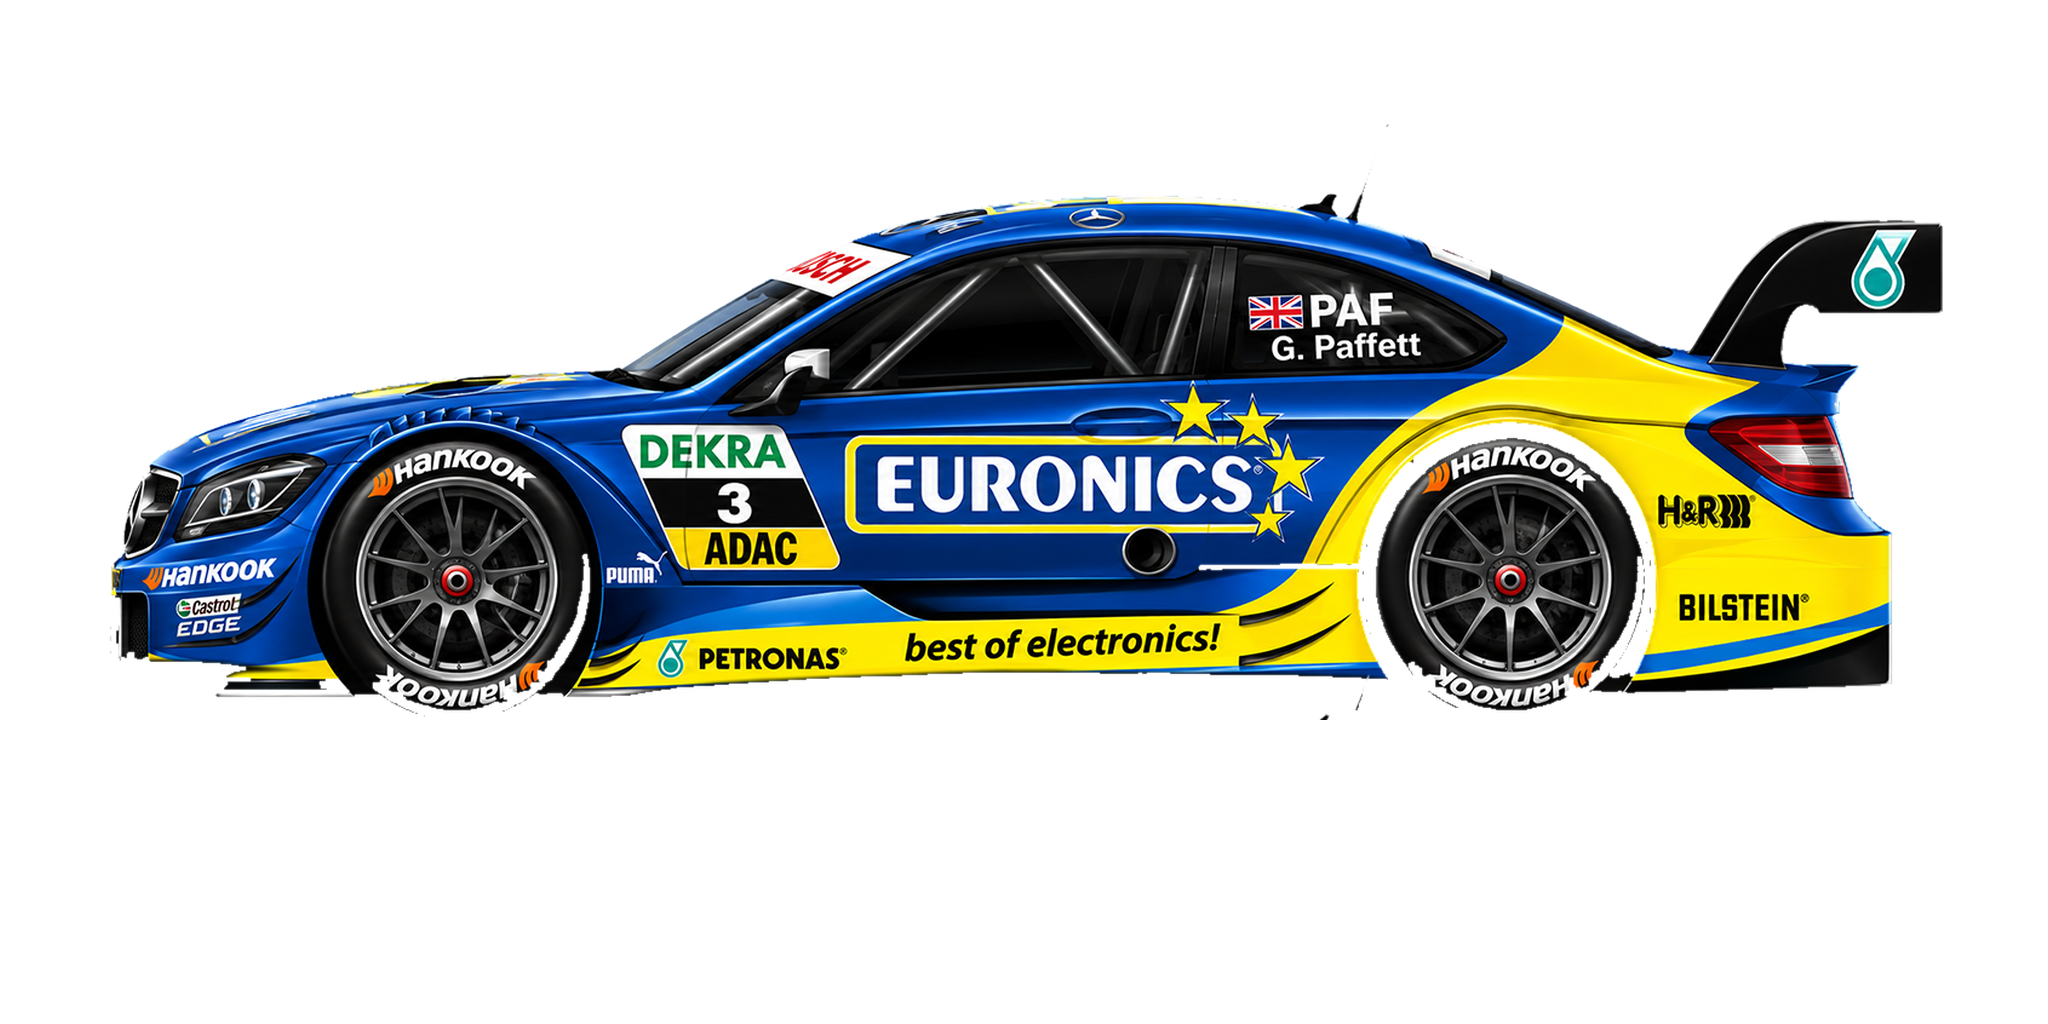
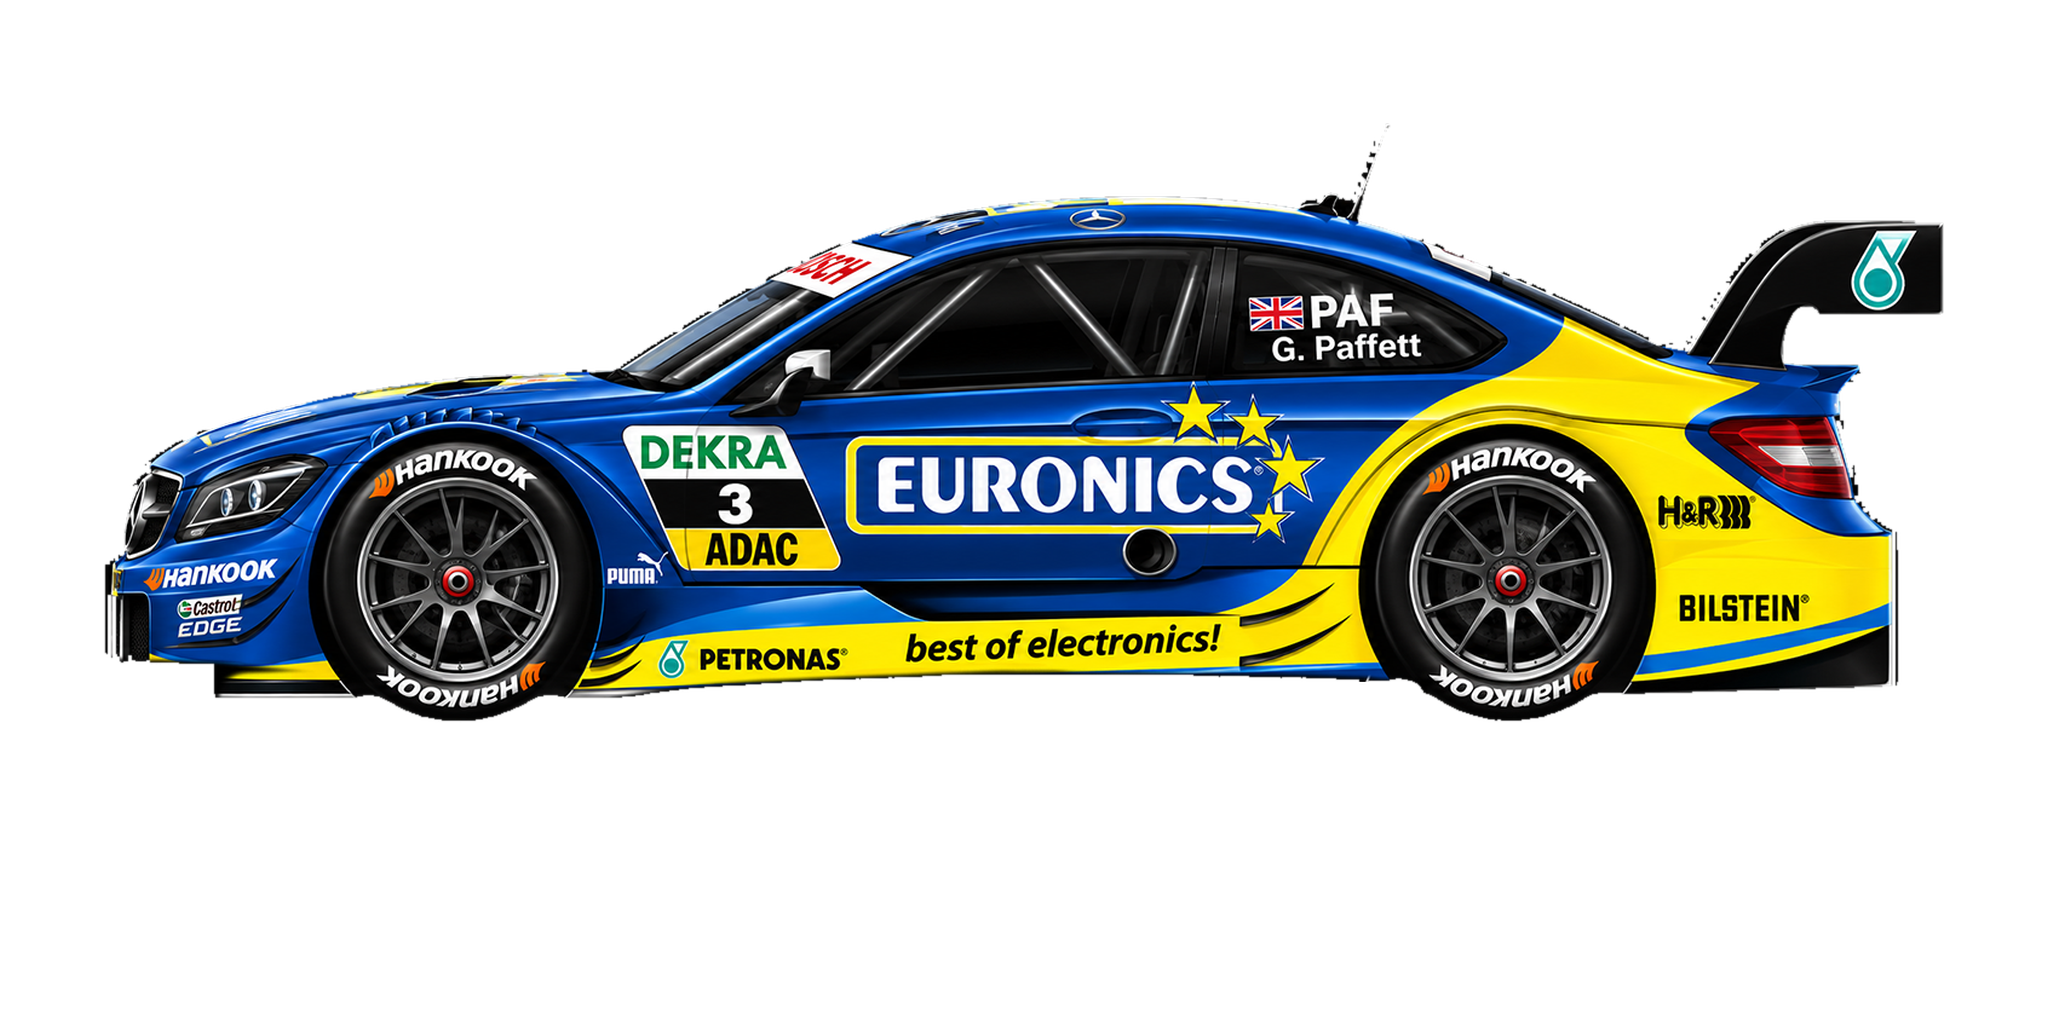
DTM 2013 car images: black tyres, full antennas, one ground line
car_drawings.py now keeps the tyres, wheel-arch gaps and the black
underfloor (splitter, diffuser) that the background cut-out used to eat:
each tyre is found from its rim (Hough circle) and filled, and short dark
vertical gaps in a car's lower part are closed.

Every car's tyres stand on y=720, so the team image no longer jumps
between teams in the menus.

On the four-car HWA sheet, cars are separated by connected parts (each
part joins its nearest body) rather than by rows, each antenna is traced
up from its own roof, and stray specks are dropped, so #4's antenna no
longer hangs under Paffett's car and #4, #9 and #10 get theirs back.

drawings.json gains an "edits" entry that corrects #23's name panel from
"T. Schneider" to "T. Scheider".

Changed region(s): [[0.0312, 0.1875, 0.9375, 0.7188], [0.8438, 0.2188, 0.9375, 0.3125]]

diff --git a/tools/car_drawings.py b/tools/car_drawings.py
@@ -2,8 +2,10 @@
 
 A season's art/drawings.json lists sheets from an artist: square images of a
 team's cars on a black background, stacked top to bottom. Each car is cut
-out (the background made transparent), scaled to the span car_art.py uses
-(1840 px wide, wheels on y=720) and written:
+out (the background made transparent; the tyres and wheel arches stay
+black), scaled to the span car_art.py uses (1840 px wide) with the tyres
+standing on y=720, so every team image sits on the same ground line, and
+written:
 
 * the team image to <season>/assets/Cars/<Team>.png (the game shows one car
   per team: the sheet's "team" takes its first car, "teams" names a car per
@@ -24,15 +26,19 @@ import json
 import math
 from pathlib import Path
 
+import cv2
 import numpy as np
 from PIL import Image, ImageChops, ImageDraw, ImageFilter
 from scipy import ndimage
 
 from car_art import CACHE, CANVAS, CAR_SPAN_PX, GROUND_Y, REPO, font, load_json
 
-BLACK_MAX = 6        # background is pure black; tyres and black bodies are lighter
-MIN_CAR_ROWS = 80    # a band of rows shorter than this is not a car
-BODY_ROW_PX = 40     # a row with fewer car pixels is an antenna or a gap
+BLACK_MAX = 1        # background is 0-1; tyre rubber and arch gaps start at 2
+SPECK_PX = 300       # car pixels in a smaller island are background noise
+TYRE_R = 0.075       # tyre radius as a share of the car's length (search guess)
+ARCH_GAP = 0.25      # the dark gap kept around a tyre, as a share of its radius
+UNDERFLOOR = 0.6     # dark gaps up to this share of a tyre radius tall are
+                     # filled in a car's lower part (splitter, diffuser)
 
 
 def foreground(rgb):
@@ -41,64 +47,234 @@ def foreground(rgb):
     labels, _ = ndimage.label(dark)
     edge = np.unique(np.concatenate([labels[0], labels[-1], labels[:, 0], labels[:, -1]]))
     bg = np.isin(labels, edge[edge > 0])
-    return ~bg
+    # The background has a little noise just above the threshold next to
+    # the tyres; drop those specks.
+    labels, n = ndimage.label(~bg)
+    sizes = ndimage.sum(~bg, labels, range(1, n + 1))
+    return np.isin(labels, np.flatnonzero(sizes >= SPECK_PX) + 1)
 
 
-def cut_cars(path):
-    """The cars on a sheet, top to bottom, as RGBA crops."""
-    im = Image.open(path).convert("RGB")
+def ground_row(alpha):
+    """The row where both tyres touch the ground (lowest row with car pixels
+    at the front and at the back), so a splitter or a stray pixel below the
+    tyres doesn't move the car."""
+    mask = np.asarray(alpha) > 128
+    width = mask.shape[1]
+    for y in range(mask.shape[0] - 1, -1, -1):
+        xs = np.flatnonzero(mask[y])
+        if len(xs) < 16:
+            continue
+        runs = np.split(xs, np.flatnonzero(np.diff(xs) > 1) + 1)
+        long = [r for r in runs if len(r) >= 8]
+        if len(long) >= 2 and long[-1][0] - long[0][-1] >= 0.4 * width:
+            return y
+    raise SystemExit("no tyres found on a car")
+
+
+def split_cars(fg, n):
+    """A car number (1..n, top to bottom) for every foreground pixel.
+
+    Cars on a sheet can overlap in height (one car's tyres lower than the
+    next car's wing top) and an antenna can touch the car above, so rows
+    alone can't separate them. Thin vertical strokes (antennas) are set
+    aside, the rest falls into connected parts, the n largest parts are the
+    car bodies, and every other part joins the body it is closest to (wheels)
+    or, for a thin stroke, the car it stands on.
+    """
+    eight = np.ones((3, 3), bool)
+    core = ndimage.binary_opening(fg, structure=np.ones((1, 7), bool))
+    labels, count = ndimage.label(core, structure=eight)
+    sizes = ndimage.sum(core, labels, range(1, count + 1))
+    objs = ndimage.find_objects(labels)
+    bodies = sorted((int(i) + 1 for i in np.argsort(sizes)[::-1][:n]), key=lambda i: objs[i - 1][0].start)
+    if len(bodies) < n:
+        raise SystemExit(f"found {len(bodies)} cars, expected {n}")
+    # Every other part (wheels, mirrors, an antenna mount) joins the body
+    # most of its pixels are closest to.
+    body = np.zeros(fg.shape, np.int8)
+    for k, b in enumerate(bodies, start=1):
+        body[labels == b] = k
+    _, (iy, ix) = ndimage.distance_transform_edt(body == 0, return_indices=True)
+    nearest = body[iy, ix]
+    votes = np.zeros((count + 1, n + 1), np.int64)
+    np.add.at(votes, (labels[core], nearest[core]), 1)
+    assign = (votes[:, 1:].argmax(axis=1) + 1).astype(np.int8)
+    assign[0] = 0
+    car = assign[labels]
+    thin, _ = ndimage.label(fg & (car == 0), structure=eight)
+    for i, sl in enumerate(ndimage.find_objects(thin), start=1):
+        # Look one pixel around the piece for the cars it touches.
+        y0, x0 = max(sl[0].start - 1, 0), max(sl[1].start - 1, 0)
+        win = (slice(y0, sl[0].stop + 1), slice(x0, sl[1].stop + 1))
+        piece = thin[win] == i
+        ring = ndimage.binary_dilation(piece, eight) & (car[win] > 0)
+        ys, xs = np.nonzero(ring)
+        if len(ys):
+            # An antenna stands on its own car: take the car under its foot.
+            car[win][piece] = car[win][ys.max(), xs[ys.argmax()]]
+    return car
+
+
+def claim_antennas(fg, owner, n):
+    """Give each car back its antenna where it reaches into the car above.
+
+    A car's topmost pixels are its antenna mount. From there, follow the
+    antenna upwards row by row: take the narrow run of pixels next to where
+    the last row's run was, until the runs get wide (the car above's body or
+    tyre) or stop.
+    """
+    for k in range(2, n + 1):
+        ys, xs = np.nonzero(owner == k)
+        top = ys.min()
+        x, reach, misses = float(np.median(xs[ys == top])), 16, 0
+        for y in range(top - 1, max(top - 200, -1), -1):
+            row = fg[y]
+            lo, hi = max(int(x) - reach, 0), int(x) + reach + 1
+            hits = np.flatnonzero(row[lo:hi]) + lo
+            if not len(hits):
+                misses += 1
+                if misses > 2:
+                    break
+                continue
+            # The run of pixels around the hit nearest the line.
+            start = end = hits[np.abs(hits - x).argmin()]
+            while start > 0 and row[start - 1]:
+                start -= 1
+            while end + 1 < len(row) and row[end + 1]:
+                end += 1
+            if end - start + 1 > 16:
+                break
+            # Specks along the antenna come with it.
+            near = slice(max(start - 4, 0), end + 5)
+            owner[y, near][row[near]] = k
+            x, reach, misses = (start + end) / 2, 8, 0
+
+
+def underfloor(mine, ground, radius):
+    """Dark parts of the underfloor (the splitter's top, the diffuser) are
+    as black as the background: fill short vertical gaps in a car's lower
+    part, between the bodywork above and the splitter edge below."""
+    size = max(3, int(UNDERFLOOR * radius)) | 1
+    closed = cv2.morphologyEx(mine.astype(np.uint8), cv2.MORPH_CLOSE,
+                              np.ones((size, 1), np.uint8)) > 0
+    band = np.zeros_like(mine)
+    band[max(int(ground - 1.2 * radius), 0):ground + 1] = True
+    return closed & band & ~mine
+
+
+def tyres(gray, mine):
+    """Black around the tyres: each tyre's disc plus the gap up to the wheel
+    arch, which the background cut-out partly eats (the rubber and the gap
+    are as dark as the background).
+
+    A tyre stands on the ground row; its rim is a clear circle (found with a
+    Hough transform), and the tyre's radius is the rim centre's height above
+    the ground.
+    """
+    ys, xs = np.nonzero(mine)
+    x0, x1, y0 = xs.min(), xs.max(), ys.min()
+    crop = mine[y0:ys.max() + 1, x0:x1 + 1]
+    ground = y0 + ground_row(Image.fromarray((crop * 255).astype(np.uint8)))
+    row = np.flatnonzero(mine[ground])
+    runs = [r for r in np.split(row, np.flatnonzero(np.diff(row) > 1) + 1) if len(r) >= 8]
+    guess = TYRE_R * (x1 - x0)
+    extra = np.zeros_like(mine)
+    radii = []
+    yy, xx = np.ogrid[:mine.shape[0], :mine.shape[1]]
+    for run in (runs[0], runs[-1]):
+        cx = int(run.mean())
+        wx0, wy0 = max(int(cx - 1.3 * guess), 0), max(int(ground - 2.3 * guess), 0)
+        win = cv2.medianBlur(np.ascontiguousarray(gray[wy0:ground + 5, wx0:int(cx + 1.3 * guess)]), 5)
+        found = cv2.HoughCircles(win, cv2.HOUGH_GRADIENT, dp=1, minDist=1000, param1=120, param2=25,
+                                 minRadius=int(0.45 * guess), maxRadius=int(0.8 * guess))
+        if found is None:
+            raise SystemExit(f"no wheel rim found near x={cx}")
+        hx, hy = found[0][0][0] + wx0, found[0][0][1] + wy0
+        r = ground - hy
+        radii.append(r)
+        if not 0.8 * guess < r < 1.2 * guess:
+            raise SystemExit(f"odd tyre radius {r:.0f} (expected about {guess:.0f})")
+        dist = np.hypot(xx - hx, yy - hy)
+        extra |= dist <= r
+        # The arch gap: what closing the car's outline adds in a ring
+        # around the tyre, above the ground.
+        ring = (dist <= r * (1 + ARCH_GAP)) & (yy <= ground)
+        size = max(3, int(r * ARCH_GAP)) | 1
+        closed = cv2.morphologyEx((mine | extra).astype(np.uint8), cv2.MORPH_CLOSE,
+                                  cv2.getStructuringElement(cv2.MORPH_ELLIPSE, (size, size))) > 0
+        extra |= closed & ring
+    return extra & ~mine, ground, float(np.mean(radii))
+
+
+def apply_edits(im, edits):
+    """Small text fixes on the artist's sheet. "cut" removes the columns
+    [x0, x1) from rows [y0, y1) by moving what's right of them (up to
+    "until") left, e.g. a letter too many in a name panel."""
+    rgb = np.array(im)
+    for edit in edits:
+        (x0, x1), (y0, y1), until = edit["cut"], edit["rows"], edit["until"]
+        width = x1 - x0
+        rgb[y0:y1, x0:until - width] = rgb[y0:y1, x1:until].copy()
+        # The vacated strip takes the panel's colour from just right of it.
+        rgb[y0:y1, until - width:until] = rgb[y0:y1, until:until + width][:, ::-1]
+    return Image.fromarray(rgb)
+
+
+def cut_cars(path, n, edits=()):
+    """The n cars on a sheet, top to bottom, as RGBA crops."""
+    im = apply_edits(Image.open(path).convert("RGB"), edits)
     rgb = np.asarray(im)
     fg = foreground(rgb)
-    # Cars can sit so close that one's antenna touches the car above, so
-    # split on rows that are nearly empty (antennas only) rather than blank.
-    count = fg.sum(axis=1)
-    body = np.append(count >= BODY_ROW_PX, False)
-    runs, start = [], None
-    for y, on in enumerate(body):
-        if on and start is None:
-            start = y
-        elif not on and start is not None:
-            if y - start >= MIN_CAR_ROWS:
-                runs.append((start, y))
-            start = None
-    cuts = [0] + [a_end + int(np.argmin(count[a_end:b_start]))
-                  for (_, a_end), (b_start, _) in zip(runs, runs[1:])] + [len(count)]
-    bands = list(zip(cuts, cuts[1:]))
-    for (_, y1), (_, run_end) in zip(bands, runs):
-        # Under a car's sill, a thin sliver is the next car's antenna tip.
-        below = fg[run_end:y1]
-        if not below.size:
-            continue
-        labels, n = ndimage.label(below)
-        for i, sl in enumerate(ndimage.find_objects(labels), start=1):
-            if sl[1].stop - sl[1].start < 12:
-                below[labels == i] = False
+    owner = split_cars(fg, n)
+    claim_antennas(fg, owner, n)
+    for k in range(1, n + 1):
+        # Specks cut off from a car (left over from a neighbour's antenna)
+        # would be joined up by the underfloor fill: drop them.
+        labels, count = ndimage.label(owner == k, structure=np.ones((3, 3), bool))
+        sizes = ndimage.sum(owner == k, labels, range(1, count + 1))
+        specks = np.isin(labels, np.flatnonzero(sizes < SPECK_PX // 5) + 1)
+        owner[specks] = 0
+        fg &= ~specks
+    gray = cv2.cvtColor(rgb, cv2.COLOR_RGB2GRAY)
+    masks = []
+    for k in range(1, n + 1):
+        own = owner == k
+        add, ground, radius = tyres(gray, own)
+        add |= underfloor(own | add, ground, radius)
+        mine = own | add
+        # Nothing of a car hangs below its tyres; a sliver there is the
+        # antenna tip of the car underneath.
+        mine[ground + 3:] = False
+        # Where the fill behind a tyre or under the floor crosses a
+        # neighbour's antenna, this car shows its dark underside instead.
+        masks.append((mine, add & (owner > 0) & ~own))
+    fg = np.logical_or.reduce([mine for mine, _ in masks])
     alpha = Image.fromarray((fg * 255).astype(np.uint8))
     # Pull the edge in by a pixel and soften it: the drawing is antialiased
     # against black, which would leave a dark fringe on a light background.
     alpha = alpha.filter(ImageFilter.MinFilter(3)).filter(ImageFilter.GaussianBlur(0.6))
-    rgba = im.copy()
-    rgba.putalpha(alpha)
     cars = []
-    for y0, y1 in bands:
-        band = np.zeros_like(fg)
-        band[y0:y1] = fg[y0:y1]
-        rows, cols = np.where(band.any(axis=1))[0], np.where(band.any(axis=0))[0]
-        car = Image.new("RGBA", rgba.size, (0, 0, 0, 0))
-        car.paste(rgba, mask=Image.fromarray(band).convert("L").point(lambda v: 255 if v else 0))
+    for mine, dark in masks:
+        pixels = np.array(im)
+        pixels[dark] = 0
+        car = Image.new("RGBA", im.size, (0, 0, 0, 0))
+        car.paste(Image.fromarray(pixels), mask=Image.fromarray(mine))
         car.putalpha(ImageChops.multiply(car.getchannel("A"), alpha))
+        rows, cols = np.where(mine.any(axis=1))[0], np.where(mine.any(axis=0))[0]
         cars.append(car.crop((int(cols[0]), int(rows[0]), int(cols[-1]) + 1, int(rows[-1]) + 1)))
     return cars
 
 
 def place(car):
-    """A car crop on the game canvas, scaled to car_art.py's span and ground line."""
+    """A car crop on the game canvas, scaled to car_art.py's span, tyres on GROUND_Y."""
     scale = CAR_SPAN_PX / car.width
     w, h = CAR_SPAN_PX, round(car.height * scale)
-    if h > GROUND_Y:
-        raise SystemExit(f"car too tall for the canvas ({h} px)")
+    small = car.resize((w, h), Image.LANCZOS)
+    top = GROUND_Y - ground_row(small.getchannel("A"))
+    if top < 0 or top + h > CANVAS[1]:
+        raise SystemExit(f"car doesn't fit the canvas (top {top}, height {h})")
     canvas = Image.new("RGBA", CANVAS, (0, 0, 0, 0))
-    canvas.alpha_composite(car.resize((w, h), Image.LANCZOS), ((CANVAS[0] - w) // 2, GROUND_Y - h))
+    canvas.alpha_composite(small, ((CANVAS[0] - w) // 2, top))
     return canvas
 
 
@@ -122,9 +298,7 @@ def main():
     all_dir.mkdir(parents=True, exist_ok=True)
     written = []
     for name, sheet in cfg["sheets"].items():
-        cars = cut_cars(source / name)
-        if len(cars) != len(sheet["cars"]):
-            raise SystemExit(f"{name}: found {len(cars)} cars, drawings.json lists {len(sheet['cars'])}")
+        cars = cut_cars(source / name, len(sheet["cars"]), sheet.get("edits", ()))
         by_number = dict(zip(sheet["cars"], (place(c) for c in cars)))
         for number, img in by_number.items():
             img.save(all_dir / f"drawn_{number:02d}.png", optimize=True)

diff --git a/seasons/dtm-2013/README.md b/seasons/dtm-2013/README.md
@@ -72,10 +72,15 @@ two-car teams, DRS, a mandatory option tyre and knockout qualifying.
 - **Art:**
   - Cars: drawn by Pappydhorn12 (used with permission, see
     [credits.txt](credits.txt)) and cropped from their team sheets with
-    `tools/car_drawings.py` (`art/drawings.json`). Checked against the 2013
-    spotter guide on 2026-11-07: every livery matches, with two small text
-    differences (#23's name panel reads "T. Schneider" for Scheider; #5 has
-    SCHAEFFLER on the rear quarter where the guide shows PLAYBOY). The first
+    `tools/car_drawings.py` (`art/drawings.json`). The tool keeps the tyres,
+    wheel-arch gaps and the black underfloor (splitter, diffuser), gives
+    each car its whole antenna where it reaches into the car above on a
+    sheet, and stands every car's tyres on the same ground line (y=720), so
+    the image doesn't jump between teams in the menus. Checked against the
+    2013 spotter guide on 2026-11-07: every livery matches, with two small
+    text differences: #23's name panel read "T. Schneider", which the tool
+    corrects to Scheider (an `edits` entry), and #5 has SCHAEFFLER on the
+    rear quarter where the guide shows PLAYBOY. The first
     sheet named Schnitzer holds the 2013 RBM cars, which are used for RBM;
     the corrected Schnitzer sheet is saved as `BMW_Team_Schnitzer_1_2.png`.
     The sheet named RBM shows 2014 cars (BMW M4, Farfus in BMW Bank colours)
